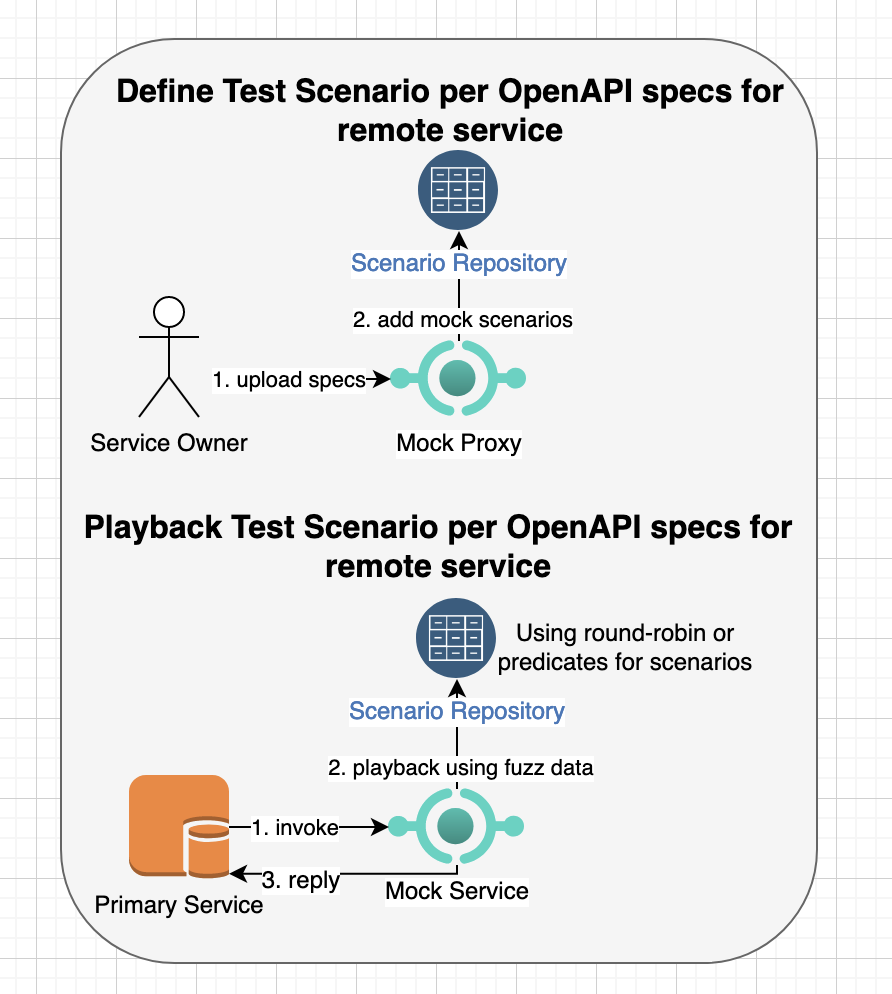
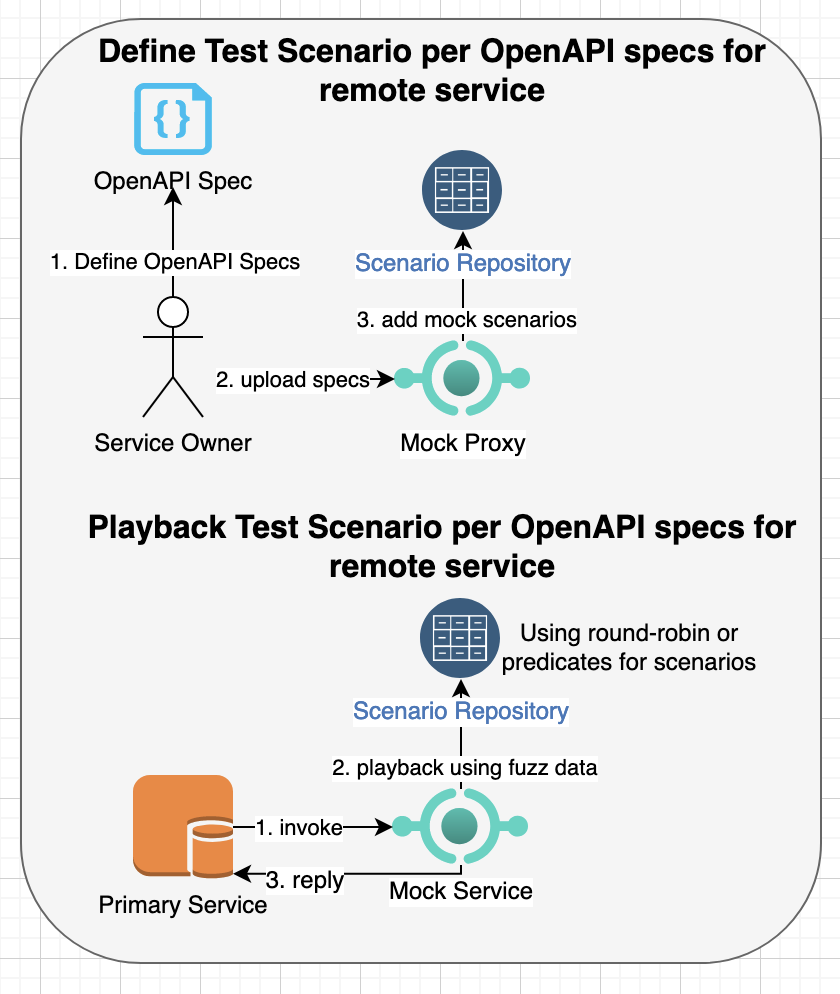
updated readme

diff --git a/README.md b/README.md
@@ -11,6 +11,7 @@ building reliable and robust software systems. However, these testing methodolog
 - Integration/functional tests further add risks when testing for hard to reproduce conditions with real services. Also, real services keep their own state, which could be updated externally so regression testing can't be reliably performed. 
 - You may need to inject failures, time delays, network failures or timeouts for chaos testing/game days, which require special tooling and development effort.
 - The functional/load tests also need to check for non-functional requirements when building distributed systems such as concurrency, performance, scalability and failures. This requires not only testing for robust server side code but also testing for clients/sdks that can handle various error conditions.
+- Testing for backward and forward compatibility is hard as different clients may be using a subset of functionality. This requires solid support for contract based testing from consumer's and producer's perspectives.
 
 ### Facilitate testing with the api-mock-service
 
@@ -28,8 +29,10 @@ The property-based/generative techniques reduce the size of test suites by autom
 ![use-case-3](images/mock_uc3.png)
 - As a service owner, I need to inject various response behavior and faults to the output of a remote service so that I can build a robust client that prevents cascading failures and is more resilient to unexpected faults.
 ![use-case-4](images/mock_uc4.png)
-- As a service owner, I need to define test cases with faulty or fuzz responses to test my own service so that I can predict how it will behave with various input data and assert the service response based on expected behavior.
+- As a developer, I need a playground to try out remote service APIs and learn how the behave with different test data scenarios so that I can understand the API behavior better while referring to the API specs.
 ![use-case-5](images/mock_uc5.png)
+- As a service owner, I need to define test cases with faulty or fuzz responses to test my own service so that I can predict how it will behave with various input data and assert the service response based on expected behavior.
+![use-case-6](images/mock_uc6.png)
  
 ### Features
 
@@ -50,6 +53,8 @@ API mock service for REST/HTTP based services with following features:
 - Support multiple mock scenarios for the same API that can be selected either using round-robin order, custom predicates based on parameters or based on scenario name.
 - Inject error conditions and artificial delays so that you can test how your system handles error conditions that are difficult to reproduce or use for game days/chaos testing.
 - Generate client requests for a remote API for chaos and stochastic testing where a set of requests are sent with a dynamic data generated based on regex or other constraints.
+- Create a playground for testing APIs interactively so that users can learn the APIs quickly.
+- Support contract based testing from both consumer and producer sides.
 - Chain group tests and execute them in a specific order so that output of a one test scenario can be used as an input to next test scenarios.
 
 This service is based on an older mock-service https://github.com/bhatti/PlexMockServices, I wrote a while ago.
